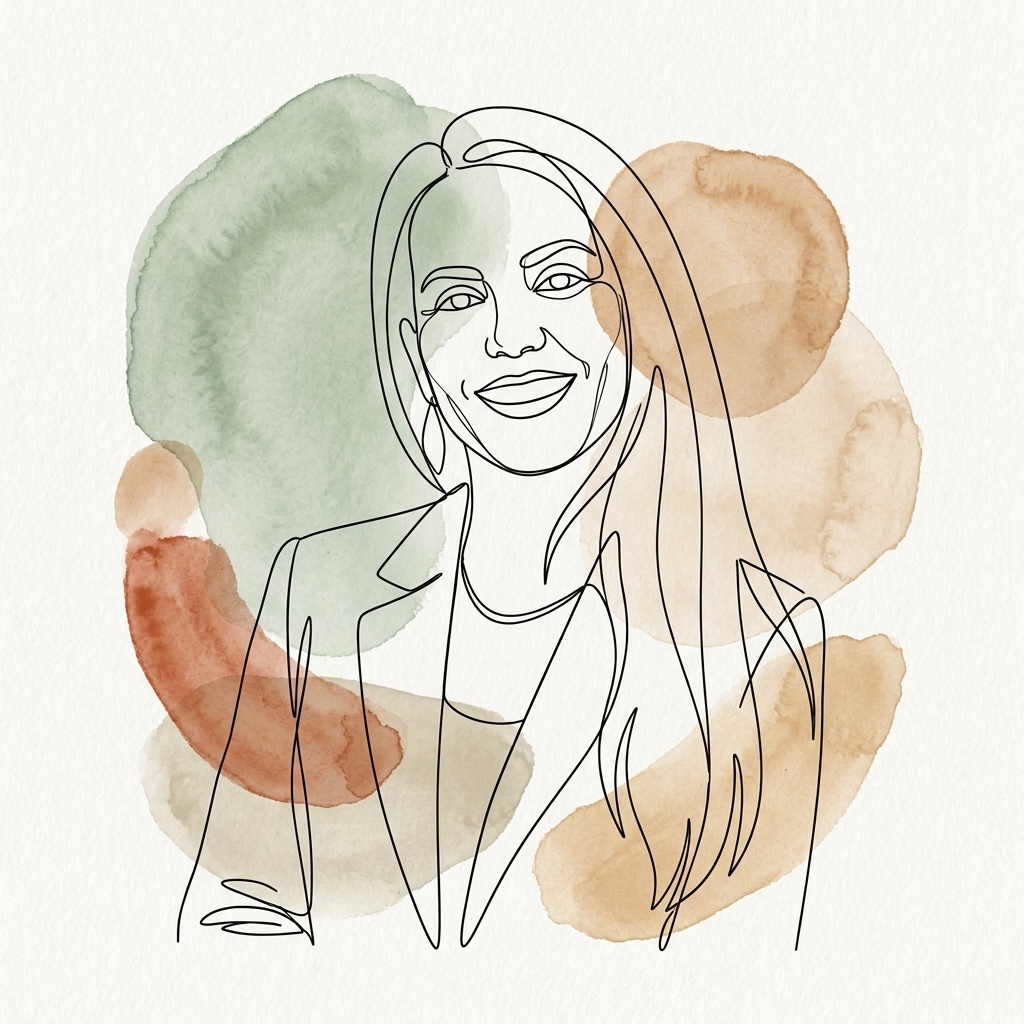
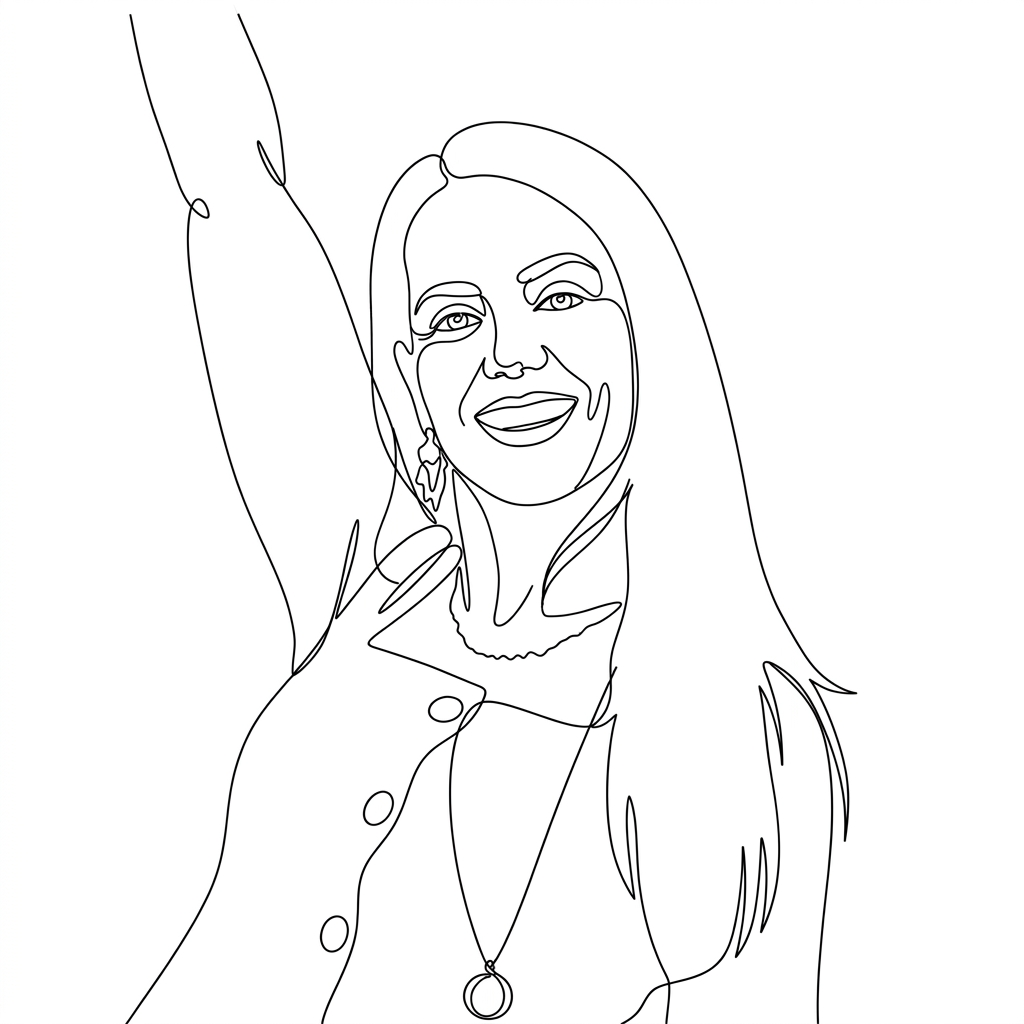
feat: change profile reveal to ink-spreading effect with aligned poses

diff --git a/index.js b/index.js
@@ -144,22 +144,54 @@ document.addEventListener('DOMContentLoaded', () => {
     });
 
     /* ==========================================================================
-       6. Interatividade da Foto de Perfil (Suporte para Mobile Touch)
+       6. Interatividade da Foto de Perfil (Revelação por Pintura Estilo Ink Spreading)
        ========================================================================== */
     const profileContainer = document.getElementById('profile-interactive-container');
     
     if (profileContainer) {
-        // Alterna a classe 'active' ao tocar no smartphone para acionar o efeito hover-like
-        profileContainer.addEventListener('click', (e) => {
-            profileContainer.classList.toggle('active');
-        });
-        
-        // Remove a classe 'active' caso o usuário toque fora do contêiner da foto
-        document.addEventListener('click', (e) => {
-            if (!profileContainer.contains(e.target)) {
-                profileContainer.classList.remove('active');
-            }
-        });
+        const circles = [
+            { id: 'clip-circle-1', maxR: 0.9, delay: 0 },
+            { id: 'clip-circle-2', maxR: 0.7, delay: 80 },
+            { id: 'clip-circle-3', maxR: 0.8, delay: 160 },
+            { id: 'clip-circle-4', maxR: 0.75, delay: 240 },
+            { id: 'clip-circle-5', maxR: 0.7, delay: 120 },
+            { id: 'clip-circle-6', maxR: 0.65, delay: 200 },
+            { id: 'clip-circle-7', maxR: 0.6, delay: 280 }
+        ];
+
+        const triggerPaint = () => {
+            if (profileContainer.classList.contains('painted')) return;
+            
+            profileContainer.classList.add('painted');
+            
+            circles.forEach(c => {
+                const el = document.getElementById(c.id);
+                if (el) {
+                    setTimeout(() => {
+                        let start = null;
+                        const duration = 1200; // ms
+                        
+                        function step(timestamp) {
+                            if (!start) start = timestamp;
+                            const progress = Math.min((timestamp - start) / duration, 1);
+                            
+                            // Efeito de facilitação easeOutCubic para a expansão do fluido
+                            const easeProgress = 1 - Math.pow(1 - progress, 3);
+                            el.setAttribute('r', easeProgress * c.maxR);
+                            
+                            if (progress < 1) {
+                                requestAnimationFrame(step);
+                            }
+                        }
+                        requestAnimationFrame(step);
+                    }, c.delay);
+                }
+            });
+        };
+
+        // Dispara ao passar o mouse (desktop) ou ao clicar/tocar (mobile e fallback)
+        profileContainer.addEventListener('mouseenter', triggerPaint);
+        profileContainer.addEventListener('click', triggerPaint);
     }
 
 });

diff --git a/index.css b/index.css
@@ -1453,7 +1453,7 @@ ul {
     width: 100%;
     height: 100%;
     object-fit: cover;
-    transition: opacity 0.8s ease-in-out, clip-path 0.8s cubic-bezier(0.25, 1, 0.5, 1), transform 0.8s ease-in-out;
+    transition: opacity 0.8s ease-in-out, transform 1s cubic-bezier(0.25, 1, 0.5, 1);
 }
 
 .profile-img-lineart {
@@ -1464,21 +1464,18 @@ ul {
 .profile-img-realistic {
     z-index: 3;
     opacity: 0;
-    clip-path: circle(0% at 50% 50%);
-    transform: scale(0.95);
+    clip-path: url(#ink-clip);
+    transform: scale(0.98);
 }
 
-/* Efeito de pintura: Ao passar o mouse ou tocar, a imagem realista surge circularmente */
-.profile-interactive-container:hover .profile-img-realistic,
-.profile-interactive-container.active .profile-img-realistic {
+/* Efeito de pintura: Quando pintado (.painted), a foto realista aparece e a linha esmaece */
+.profile-interactive-container.painted .profile-img-realistic {
     opacity: 1;
-    clip-path: circle(120% at 50% 50%);
     transform: scale(1);
 }
 
-.profile-interactive-container:hover .profile-img-lineart,
-.profile-interactive-container.active .profile-img-lineart {
-    opacity: 0.35;
+.profile-interactive-container.painted .profile-img-lineart {
+    opacity: 0.15;
 }
 
 /* Dica visual (Overlay sutil) */
@@ -1502,8 +1499,7 @@ ul {
     content: 'Passe o mouse ou toque para colorir';
 }
 
-.profile-interactive-container:hover .paint-effect-overlay,
-.profile-interactive-container.active .paint-effect-overlay {
+.profile-interactive-container.painted .paint-effect-overlay {
     opacity: 0;
     transform: translateY(10px);
 }

diff --git a/index.html b/index.html
@@ -463,6 +463,21 @@
         <span class="float-tooltip">Agendar Consulta</span>
     </a>
 
+    <!-- Definição do ClipPath SVG para Efeito de Pintura Orgânica (Blobs de tinta) -->
+    <svg width="0" height="0" style="position: absolute;" aria-hidden="true">
+        <defs>
+            <clipPath id="ink-clip" clipPathUnits="objectBoundingBox">
+                <circle id="clip-circle-1" cx="0.5" cy="0.55" r="0" />
+                <circle id="clip-circle-2" cx="0.32" cy="0.45" r="0" />
+                <circle id="clip-circle-3" cx="0.68" cy="0.65" r="0" />
+                <circle id="clip-circle-4" cx="0.45" cy="0.75" r="0" />
+                <circle id="clip-circle-5" cx="0.58" cy="0.35" r="0" />
+                <circle id="clip-circle-6" cx="0.25" cy="0.6" r="0" />
+                <circle id="clip-circle-7" cx="0.75" cy="0.4" r="0" />
+            </clipPath>
+        </defs>
+    </svg>
+
     <!-- JavaScript -->
     <script src="index.js"></script>
 </body>
